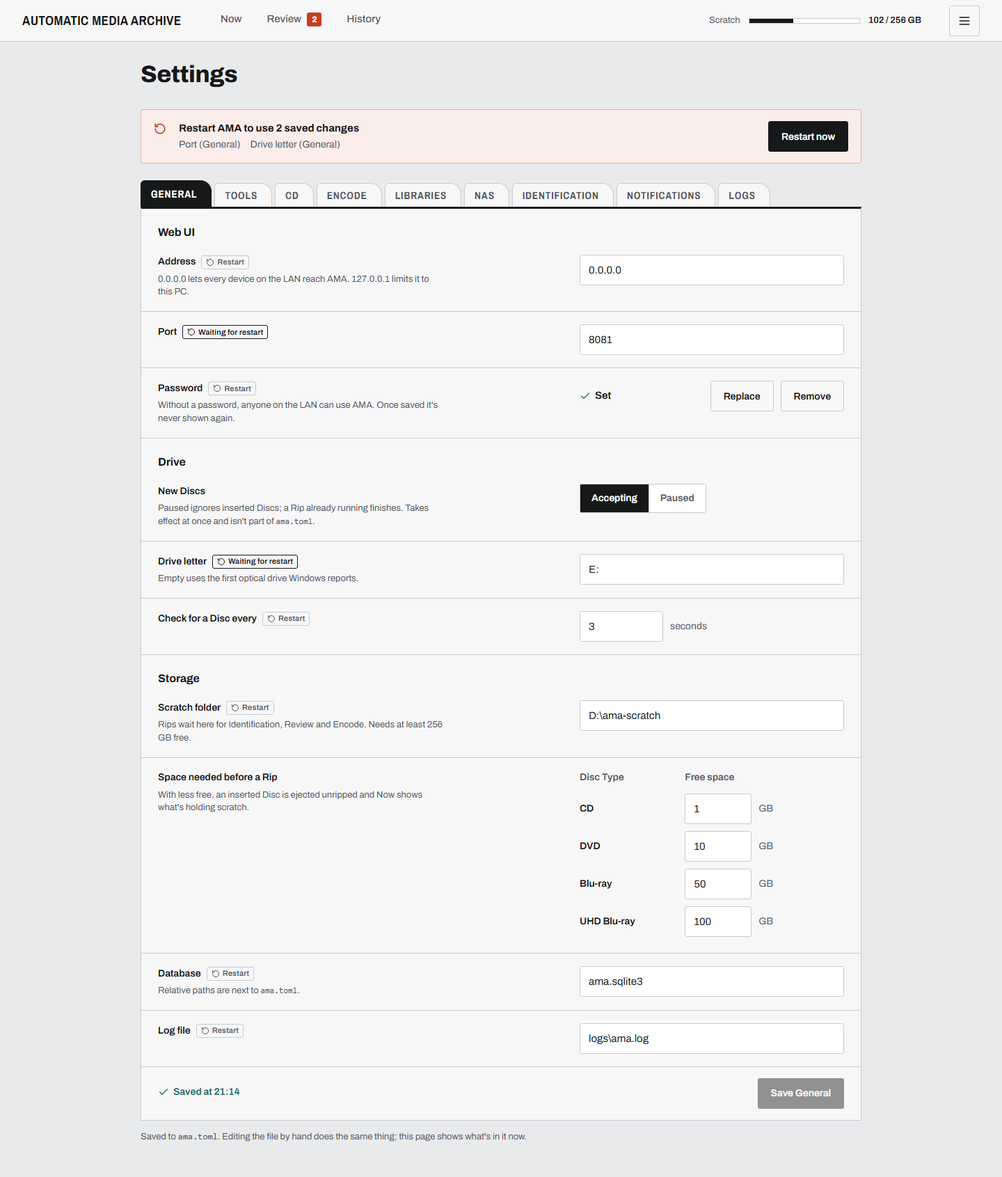
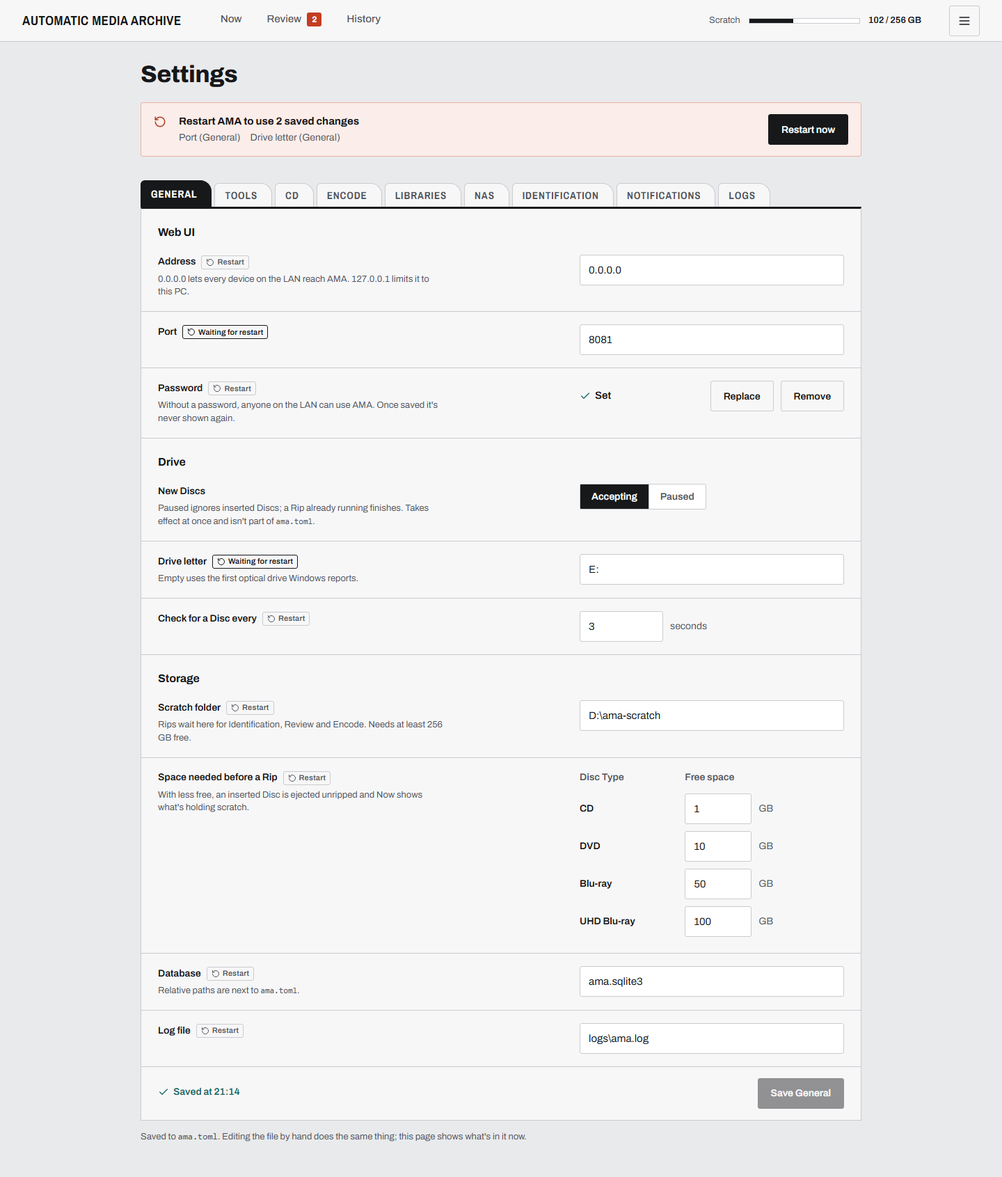
Settings mockups: 44px tab targets, toggle buttons, review fixes
Divider tabs get a 44px hit area (48px on phones) without changing shape;
Paused is a mark, not a link; New Discs, Theme and Kind toggles are
aria-pressed buttons; scratch thresholds carry the Restart tag. DESIGN.md
now allows state colours on the 1px border.

diff --git a/docs/mockups/settings-menu.html b/docs/mockups/settings-menu.html
@@ -11,11 +11,11 @@
 <header class="top">
   <a class="brand" href="now.html">Automatic Media Archive</a>
   <nav class="nav" aria-label="Main"><a href="now.html">Now</a><a href="review-movie.html">Review<span class="count" aria-label="2 waiting">2</span></a><a href="history.html">History</a></nav>
-  <a class="paused" href="settings-menu.html" title="New Discs are ignored until you resume"><svg class="i" aria-hidden="true"><use href="assets/icons.svg#pause"/></svg>Paused</a><a class="scratch" href="scratch-full.html" title="Local scratch space"><span class="lbl">Scratch</span><span class="meter" role="meter" aria-valuenow="102" aria-valuemin="0" aria-valuemax="256" aria-label="Scratch used"><i style="width:39.8%"></i></span><b>102 / 256 GB</b></a>
+  <span class="paused" title="New Discs are ignored until you resume"><svg class="i" aria-hidden="true"><use href="assets/icons.svg#pause"/></svg>Paused</span><a class="scratch" href="scratch-full.html" title="Local scratch space"><span class="lbl">Scratch</span><span class="meter" role="meter" aria-valuenow="102" aria-valuemin="0" aria-valuemax="256" aria-label="Scratch used"><i style="width:39.8%"></i></span><b>102 / 256 GB</b></a>
   <div class="menu"><button class="mbtn" type="button" aria-label="Menu" aria-expanded="true" aria-controls="menu" onclick="location.href='settings-general.html'"><svg class="i" aria-hidden="true"><use href="assets/icons.svg#menu"/></svg></button>
     <div class="mpanel" id="menu">
-      <div class="mg"><div class="ml" id="m-drive">New Discs</div><div class="segs" role="group" aria-labelledby="m-drive"><a href="#">Accepting</a><a href="#" aria-current="true">Paused</a></div></div>
-      <div class="mg"><div class="ml" id="m-theme">Theme</div><div class="segs" role="group" aria-labelledby="m-theme"><a href="#" aria-current="true">System</a><a href="?theme=light">Light</a><a href="?theme=dark">Dark</a></div></div>
+      <div class="mg"><div class="ml" id="m-drive">New Discs</div><div class="segs" role="group" aria-labelledby="m-drive"><button type="button" aria-pressed="false">Accepting</button><button type="button" aria-pressed="true">Paused</button></div></div>
+      <div class="mg"><div class="ml" id="m-theme">Theme</div><div class="segs" role="group" aria-labelledby="m-theme"><button type="button" aria-pressed="true">System</button><button type="button" aria-pressed="false">Light</button><button type="button" aria-pressed="false">Dark</button></div></div>
       <a class="mi" href="settings-general.html" aria-current="page"><svg class="i" aria-hidden="true"><use href="assets/icons.svg#settings"/></svg>Settings</a>
       <a class="mi" href="login.html"><svg class="i" aria-hidden="true"><use href="assets/icons.svg#logout"/></svg>Log out</a>
     </div></div>
@@ -29,12 +29,12 @@
       <div class="sf"><div><div class="lb"><label for="web-port">Port</label><span class="rs" title="Saved now, used after AMA restarts"><svg class="i" aria-hidden="true"><use href="assets/icons.svg#redo"/></svg>Restart</span></div></div><div class="ctl"><input class="input" id="web-port" type="number" name="web-port" value="8080" aria-describedby="web-port-h" spellcheck="false"></div></div>
       <div class="sf"><div><div class="lb"><span>Password</span><span class="rs" title="Saved now, used after AMA restarts"><svg class="i" aria-hidden="true"><use href="assets/icons.svg#redo"/></svg>Restart</span></div><div class="hn">Without a password, anyone on the LAN can use AMA. Once saved it's never shown again.</div></div><div class="ctl"><div class="secret"><span class="state"><svg class="i" aria-hidden="true"><use href="assets/icons.svg#check"/></svg>Set</span><button class="btn quiet" type="button" aria-label="Replace password">Replace</button><button class="btn quiet" type="button" aria-label="Remove password">Remove</button></div></div></div>
       <div class="grp-h"><h2>Drive</h2></div>
-      <div class="sf"><div><div class="lb"><span>New Discs</span></div><div class="hn">Paused ignores inserted Discs; a Rip already running finishes. Takes effect at once and isn't part of <code>ama.toml</code>.</div></div><div class="ctl"><div class="segs" role="group" aria-label="New Discs"><a href="#" aria-current="true">Accepting</a><a href="settings-menu.html">Paused</a></div></div></div>
+      <div class="sf"><div><div class="lb"><span>New Discs</span></div><div class="hn">Paused ignores inserted Discs; a Rip already running finishes. Takes effect at once and isn't part of <code>ama.toml</code>.</div></div><div class="ctl"><div class="segs" role="group" aria-label="New Discs"><button type="button" aria-pressed="true">Accepting</button><button type="button" aria-pressed="false">Paused</button></div></div></div>
       <div class="sf"><div><div class="lb"><label for="drive-letter">Drive letter</label><span class="rs" title="Saved now, used after AMA restarts"><svg class="i" aria-hidden="true"><use href="assets/icons.svg#redo"/></svg>Restart</span></div><div class="hn" id="drive-letter-h">Empty uses the first optical drive Windows reports.</div></div><div class="ctl"><input class="input" id="drive-letter" type="text" name="drive-letter" placeholder="Automatic (D:)" aria-describedby="drive-letter-h" spellcheck="false"></div></div>
       <div class="sf"><div><div class="lb"><label for="drive-poll">Check for a Disc every</label><span class="rs" title="Saved now, used after AMA restarts"><svg class="i" aria-hidden="true"><use href="assets/icons.svg#redo"/></svg>Restart</span></div></div><div class="ctl"><div class="unit"><input class="input" id="drive-poll" type="number" name="drive-poll" value="3" aria-describedby="drive-poll-h" spellcheck="false"><span>seconds</span></div></div></div>
       <div class="grp-h"><h2>Storage</h2></div>
       <div class="sf"><div><div class="lb"><label for="paths-scratch">Scratch folder</label><span class="rs" title="Saved now, used after AMA restarts"><svg class="i" aria-hidden="true"><use href="assets/icons.svg#redo"/></svg>Restart</span></div><div class="hn" id="paths-scratch-h">Rips wait here for Identification, Review and Encode. Needs at least 256 GB free.</div></div><div class="ctl"><input class="input" id="paths-scratch" type="text" name="paths-scratch" value="D:\ama-scratch" aria-describedby="paths-scratch-h" spellcheck="false"></div></div>
-      <div class="sf"><div><div class="lb"><span>Space needed before a Rip</span></div><div class="hn">With less free, an inserted Disc is ejected unripped and Now shows what's holding scratch.</div></div><div class="ctl"><table class="pertype"><thead><tr><th scope="col">Disc Type</th><th scope="col">Free space</th></tr></thead><tbody><tr><td>CD</td><td><div class="unit"><input class="input" type="number" value="1" aria-label="CD free space"><span>GB</span></div></td></tr><tr><td>DVD</td><td><div class="unit"><input class="input" type="number" value="10" aria-label="DVD free space"><span>GB</span></div></td></tr><tr><td>Blu-ray</td><td><div class="unit"><input class="input" type="number" value="50" aria-label="Blu-ray free space"><span>GB</span></div></td></tr><tr><td>UHD Blu-ray</td><td><div class="unit"><input class="input" type="number" value="100" aria-label="UHD Blu-ray free space"><span>GB</span></div></td></tr></tbody></table></div></div>
+      <div class="sf"><div><div class="lb"><span>Space needed before a Rip</span><span class="rs" title="Saved now, used after AMA restarts"><svg class="i" aria-hidden="true"><use href="assets/icons.svg#redo"/></svg>Restart</span></div><div class="hn">With less free, an inserted Disc is ejected unripped and Now shows what's holding scratch.</div></div><div class="ctl"><table class="pertype"><thead><tr><th scope="col">Disc Type</th><th scope="col">Free space</th></tr></thead><tbody><tr><td>CD</td><td><div class="unit"><input class="input" type="number" value="1" aria-label="CD free space"><span>GB</span></div></td></tr><tr><td>DVD</td><td><div class="unit"><input class="input" type="number" value="10" aria-label="DVD free space"><span>GB</span></div></td></tr><tr><td>Blu-ray</td><td><div class="unit"><input class="input" type="number" value="50" aria-label="Blu-ray free space"><span>GB</span></div></td></tr><tr><td>UHD Blu-ray</td><td><div class="unit"><input class="input" type="number" value="100" aria-label="UHD Blu-ray free space"><span>GB</span></div></td></tr></tbody></table></div></div>
       <div class="sf"><div><div class="lb"><label for="paths-db">Database</label><span class="rs" title="Saved now, used after AMA restarts"><svg class="i" aria-hidden="true"><use href="assets/icons.svg#redo"/></svg>Restart</span></div><div class="hn" id="paths-db-h">Relative paths are next to <code>ama.toml</code>.</div></div><div class="ctl"><input class="input" id="paths-db" type="text" name="paths-db" value="ama.sqlite3" aria-describedby="paths-db-h" spellcheck="false"></div></div>
       <div class="sf"><div><div class="lb"><label for="paths-log">Log file</label><span class="rs" title="Saved now, used after AMA restarts"><svg class="i" aria-hidden="true"><use href="assets/icons.svg#redo"/></svg>Restart</span></div></div><div class="ctl"><input class="input" id="paths-log" type="text" name="paths-log" value="logs\ama.log" aria-describedby="paths-log-h" spellcheck="false"></div></div>
       <div class="setfoot"><span class="st">No unsaved changes</span><button class="btn pri" type="submit" disabled>Save General</button></div>

diff --git a/docs/mockups/settings-restart.html b/docs/mockups/settings-restart.html
@@ -27,12 +27,12 @@
       <div class="sf"><div><div class="lb"><label for="web-port">Port</label><span class="rs pending"><svg class="i" aria-hidden="true"><use href="assets/icons.svg#redo"/></svg>Waiting for restart</span></div></div><div class="ctl"><input class="input" id="web-port" type="number" name="web-port" value="8081" aria-describedby="web-port-h" spellcheck="false"></div></div>
       <div class="sf"><div><div class="lb"><span>Password</span><span class="rs" title="Saved now, used after AMA restarts"><svg class="i" aria-hidden="true"><use href="assets/icons.svg#redo"/></svg>Restart</span></div><div class="hn">Without a password, anyone on the LAN can use AMA. Once saved it's never shown again.</div></div><div class="ctl"><div class="secret"><span class="state"><svg class="i" aria-hidden="true"><use href="assets/icons.svg#check"/></svg>Set</span><button class="btn quiet" type="button" aria-label="Replace password">Replace</button><button class="btn quiet" type="button" aria-label="Remove password">Remove</button></div></div></div>
       <div class="grp-h"><h2>Drive</h2></div>
-      <div class="sf"><div><div class="lb"><span>New Discs</span></div><div class="hn">Paused ignores inserted Discs; a Rip already running finishes. Takes effect at once and isn't part of <code>ama.toml</code>.</div></div><div class="ctl"><div class="segs" role="group" aria-label="New Discs"><a href="#" aria-current="true">Accepting</a><a href="settings-menu.html">Paused</a></div></div></div>
+      <div class="sf"><div><div class="lb"><span>New Discs</span></div><div class="hn">Paused ignores inserted Discs; a Rip already running finishes. Takes effect at once and isn't part of <code>ama.toml</code>.</div></div><div class="ctl"><div class="segs" role="group" aria-label="New Discs"><button type="button" aria-pressed="true">Accepting</button><button type="button" aria-pressed="false">Paused</button></div></div></div>
       <div class="sf"><div><div class="lb"><label for="drive-letter">Drive letter</label><span class="rs pending"><svg class="i" aria-hidden="true"><use href="assets/icons.svg#redo"/></svg>Waiting for restart</span></div><div class="hn" id="drive-letter-h">Empty uses the first optical drive Windows reports.</div></div><div class="ctl"><input class="input" id="drive-letter" type="text" name="drive-letter" value="E:" placeholder="Automatic (D:)" aria-describedby="drive-letter-h" spellcheck="false"></div></div>
       <div class="sf"><div><div class="lb"><label for="drive-poll">Check for a Disc every</label><span class="rs" title="Saved now, used after AMA restarts"><svg class="i" aria-hidden="true"><use href="assets/icons.svg#redo"/></svg>Restart</span></div></div><div class="ctl"><div class="unit"><input class="input" id="drive-poll" type="number" name="drive-poll" value="3" aria-describedby="drive-poll-h" spellcheck="false"><span>seconds</span></div></div></div>
       <div class="grp-h"><h2>Storage</h2></div>
       <div class="sf"><div><div class="lb"><label for="paths-scratch">Scratch folder</label><span class="rs" title="Saved now, used after AMA restarts"><svg class="i" aria-hidden="true"><use href="assets/icons.svg#redo"/></svg>Restart</span></div><div class="hn" id="paths-scratch-h">Rips wait here for Identification, Review and Encode. Needs at least 256 GB free.</div></div><div class="ctl"><input class="input" id="paths-scratch" type="text" name="paths-scratch" value="D:\ama-scratch" aria-describedby="paths-scratch-h" spellcheck="false"></div></div>
-      <div class="sf"><div><div class="lb"><span>Space needed before a Rip</span></div><div class="hn">With less free, an inserted Disc is ejected unripped and Now shows what's holding scratch.</div></div><div class="ctl"><table class="pertype"><thead><tr><th scope="col">Disc Type</th><th scope="col">Free space</th></tr></thead><tbody><tr><td>CD</td><td><div class="unit"><input class="input" type="number" value="1" aria-label="CD free space"><span>GB</span></div></td></tr><tr><td>DVD</td><td><div class="unit"><input class="input" type="number" value="10" aria-label="DVD free space"><span>GB</span></div></td></tr><tr><td>Blu-ray</td><td><div class="unit"><input class="input" type="number" value="50" aria-label="Blu-ray free space"><span>GB</span></div></td></tr><tr><td>UHD Blu-ray</td><td><div class="unit"><input class="input" type="number" value="100" aria-label="UHD Blu-ray free space"><span>GB</span></div></td></tr></tbody></table></div></div>
+      <div class="sf"><div><div class="lb"><span>Space needed before a Rip</span><span class="rs" title="Saved now, used after AMA restarts"><svg class="i" aria-hidden="true"><use href="assets/icons.svg#redo"/></svg>Restart</span></div><div class="hn">With less free, an inserted Disc is ejected unripped and Now shows what's holding scratch.</div></div><div class="ctl"><table class="pertype"><thead><tr><th scope="col">Disc Type</th><th scope="col">Free space</th></tr></thead><tbody><tr><td>CD</td><td><div class="unit"><input class="input" type="number" value="1" aria-label="CD free space"><span>GB</span></div></td></tr><tr><td>DVD</td><td><div class="unit"><input class="input" type="number" value="10" aria-label="DVD free space"><span>GB</span></div></td></tr><tr><td>Blu-ray</td><td><div class="unit"><input class="input" type="number" value="50" aria-label="Blu-ray free space"><span>GB</span></div></td></tr><tr><td>UHD Blu-ray</td><td><div class="unit"><input class="input" type="number" value="100" aria-label="UHD Blu-ray free space"><span>GB</span></div></td></tr></tbody></table></div></div>
       <div class="sf"><div><div class="lb"><label for="paths-db">Database</label><span class="rs" title="Saved now, used after AMA restarts"><svg class="i" aria-hidden="true"><use href="assets/icons.svg#redo"/></svg>Restart</span></div><div class="hn" id="paths-db-h">Relative paths are next to <code>ama.toml</code>.</div></div><div class="ctl"><input class="input" id="paths-db" type="text" name="paths-db" value="ama.sqlite3" aria-describedby="paths-db-h" spellcheck="false"></div></div>
       <div class="sf"><div><div class="lb"><label for="paths-log">Log file</label><span class="rs" title="Saved now, used after AMA restarts"><svg class="i" aria-hidden="true"><use href="assets/icons.svg#redo"/></svg>Restart</span></div></div><div class="ctl"><input class="input" id="paths-log" type="text" name="paths-log" value="logs\ama.log" aria-describedby="paths-log-h" spellcheck="false"></div></div>
       <div class="setfoot"><span class="st"><span class="ok" role="status"><svg class="i" aria-hidden="true"><use href="assets/icons.svg#check"/></svg>Saved at 21:14</span></span><button class="btn pri" type="submit" disabled>Save General</button></div>

diff --git a/docs/mockups/settings-general.html b/docs/mockups/settings-general.html
@@ -23,12 +23,12 @@
       <div class="sf"><div><div class="lb"><label for="web-port">Port</label><span class="rs" title="Saved now, used after AMA restarts"><svg class="i" aria-hidden="true"><use href="assets/icons.svg#redo"/></svg>Restart</span></div></div><div class="ctl"><input class="input" id="web-port" type="number" name="web-port" value="8080" aria-describedby="web-port-h" spellcheck="false"></div></div>
       <div class="sf"><div><div class="lb"><span>Password</span><span class="rs" title="Saved now, used after AMA restarts"><svg class="i" aria-hidden="true"><use href="assets/icons.svg#redo"/></svg>Restart</span></div><div class="hn">Without a password, anyone on the LAN can use AMA. Once saved it's never shown again.</div></div><div class="ctl"><div class="secret"><span class="state"><svg class="i" aria-hidden="true"><use href="assets/icons.svg#check"/></svg>Set</span><button class="btn quiet" type="button" aria-label="Replace password">Replace</button><button class="btn quiet" type="button" aria-label="Remove password">Remove</button></div></div></div>
       <div class="grp-h"><h2>Drive</h2></div>
-      <div class="sf"><div><div class="lb"><span>New Discs</span></div><div class="hn">Paused ignores inserted Discs; a Rip already running finishes. Takes effect at once and isn't part of <code>ama.toml</code>.</div></div><div class="ctl"><div class="segs" role="group" aria-label="New Discs"><a href="#" aria-current="true">Accepting</a><a href="settings-menu.html">Paused</a></div></div></div>
+      <div class="sf"><div><div class="lb"><span>New Discs</span></div><div class="hn">Paused ignores inserted Discs; a Rip already running finishes. Takes effect at once and isn't part of <code>ama.toml</code>.</div></div><div class="ctl"><div class="segs" role="group" aria-label="New Discs"><button type="button" aria-pressed="true">Accepting</button><button type="button" aria-pressed="false">Paused</button></div></div></div>
       <div class="sf"><div><div class="lb"><label for="drive-letter">Drive letter</label><span class="rs" title="Saved now, used after AMA restarts"><svg class="i" aria-hidden="true"><use href="assets/icons.svg#redo"/></svg>Restart</span></div><div class="hn" id="drive-letter-h">Empty uses the first optical drive Windows reports.</div></div><div class="ctl"><input class="input" id="drive-letter" type="text" name="drive-letter" placeholder="Automatic (D:)" aria-describedby="drive-letter-h" spellcheck="false"></div></div>
       <div class="sf"><div><div class="lb"><label for="drive-poll">Check for a Disc every</label><span class="rs" title="Saved now, used after AMA restarts"><svg class="i" aria-hidden="true"><use href="assets/icons.svg#redo"/></svg>Restart</span></div></div><div class="ctl"><div class="unit"><input class="input" id="drive-poll" type="number" name="drive-poll" value="3" aria-describedby="drive-poll-h" spellcheck="false"><span>seconds</span></div></div></div>
       <div class="grp-h"><h2>Storage</h2></div>
       <div class="sf"><div><div class="lb"><label for="paths-scratch">Scratch folder</label><span class="rs" title="Saved now, used after AMA restarts"><svg class="i" aria-hidden="true"><use href="assets/icons.svg#redo"/></svg>Restart</span></div><div class="hn" id="paths-scratch-h">Rips wait here for Identification, Review and Encode. Needs at least 256 GB free.</div></div><div class="ctl"><input class="input" id="paths-scratch" type="text" name="paths-scratch" value="D:\ama-scratch" aria-describedby="paths-scratch-h" spellcheck="false"></div></div>
-      <div class="sf"><div><div class="lb"><span>Space needed before a Rip</span></div><div class="hn">With less free, an inserted Disc is ejected unripped and Now shows what's holding scratch.</div></div><div class="ctl"><table class="pertype"><thead><tr><th scope="col">Disc Type</th><th scope="col">Free space</th></tr></thead><tbody><tr><td>CD</td><td><div class="unit"><input class="input" type="number" value="1" aria-label="CD free space"><span>GB</span></div></td></tr><tr><td>DVD</td><td><div class="unit"><input class="input" type="number" value="10" aria-label="DVD free space"><span>GB</span></div></td></tr><tr><td>Blu-ray</td><td><div class="unit"><input class="input" type="number" value="50" aria-label="Blu-ray free space"><span>GB</span></div></td></tr><tr><td>UHD Blu-ray</td><td><div class="unit"><input class="input" type="number" value="100" aria-label="UHD Blu-ray free space"><span>GB</span></div></td></tr></tbody></table></div></div>
+      <div class="sf"><div><div class="lb"><span>Space needed before a Rip</span><span class="rs" title="Saved now, used after AMA restarts"><svg class="i" aria-hidden="true"><use href="assets/icons.svg#redo"/></svg>Restart</span></div><div class="hn">With less free, an inserted Disc is ejected unripped and Now shows what's holding scratch.</div></div><div class="ctl"><table class="pertype"><thead><tr><th scope="col">Disc Type</th><th scope="col">Free space</th></tr></thead><tbody><tr><td>CD</td><td><div class="unit"><input class="input" type="number" value="1" aria-label="CD free space"><span>GB</span></div></td></tr><tr><td>DVD</td><td><div class="unit"><input class="input" type="number" value="10" aria-label="DVD free space"><span>GB</span></div></td></tr><tr><td>Blu-ray</td><td><div class="unit"><input class="input" type="number" value="50" aria-label="Blu-ray free space"><span>GB</span></div></td></tr><tr><td>UHD Blu-ray</td><td><div class="unit"><input class="input" type="number" value="100" aria-label="UHD Blu-ray free space"><span>GB</span></div></td></tr></tbody></table></div></div>
       <div class="sf"><div><div class="lb"><label for="paths-db">Database</label><span class="rs" title="Saved now, used after AMA restarts"><svg class="i" aria-hidden="true"><use href="assets/icons.svg#redo"/></svg>Restart</span></div><div class="hn" id="paths-db-h">Relative paths are next to <code>ama.toml</code>.</div></div><div class="ctl"><input class="input" id="paths-db" type="text" name="paths-db" value="ama.sqlite3" aria-describedby="paths-db-h" spellcheck="false"></div></div>
       <div class="sf"><div><div class="lb"><label for="paths-log">Log file</label><span class="rs" title="Saved now, used after AMA restarts"><svg class="i" aria-hidden="true"><use href="assets/icons.svg#redo"/></svg>Restart</span></div></div><div class="ctl"><input class="input" id="paths-log" type="text" name="paths-log" value="logs\ama.log" aria-describedby="paths-log-h" spellcheck="false"></div></div>
       <div class="setfoot"><span class="st">No unsaved changes</span><button class="btn pri" type="submit" disabled>Save General</button></div>

diff --git a/docs/mockups/assets/ama-app.css b/docs/mockups/assets/ama-app.css
@@ -158,7 +158,10 @@ td.diff{box-shadow:inset 3px 0 0 var(--rev);padding-left:12px}
 .mpanel .mg{padding:12px 16px 14px;border-top:1px solid var(--rule)}
 .mpanel .mg:first-child{border-top:0}
 .mpanel .ml{font-size:13px;color:var(--ink2);margin-bottom:8px}
-.mpanel .segs{display:flex}.mpanel .segs a{flex:1;min-height:44px;display:flex;align-items:center;justify-content:center;padding:0}
+.mpanel .segs{display:flex}.mpanel .segs button{flex:1;min-height:44px}
+.segs button{padding:10px 16px;border:0;border-left:1px solid var(--rule);background:none;color:var(--ink2);font:600 14px Archivo;cursor:pointer}
+.segs button:first-child{border-left:0}
+.segs button[aria-pressed="true"]{background:var(--ink);color:var(--sheet)}
 .mpanel .mi{display:flex;align-items:center;gap:12px;min-height:48px;padding:0 16px;border-top:1px solid var(--rule);text-decoration:none;font-weight:500}
 .mpanel .mi:hover{background:var(--well)}
 .mpanel .mi[aria-current]{font-weight:700}
@@ -175,10 +178,12 @@ td.diff{box-shadow:inset 3px 0 0 var(--rev);padding-left:12px}
 
 /* Settings: divider-file tabs, one section per page (docs/mockups/settings-*.html) */
 main.settings{max-width:1100px}
-.settings h1{margin-bottom:32px}
-.files{display:flex;gap:4px;align-items:flex-end;overflow-x:auto;scrollbar-width:none}
+.settings h1{margin-bottom:22px}
+.files{display:flex;gap:4px;align-items:flex-end;padding-top:10px;overflow-x:auto;scrollbar-width:none}
 .files::-webkit-scrollbar{display:none}
-.files .tab{flex:none;height:34px;background:var(--sheet);color:var(--ink2);border:1px solid var(--rule);border-bottom:0}
+/* Hit area reaches 44px above the tab without changing its shape */
+.files .tab::before{content:"";position:absolute;inset:-10px 0 0}
+.files .tab{position:relative;flex:none;height:34px;background:var(--sheet);color:var(--ink2);border:1px solid var(--rule);border-bottom:0}
 .files .tab:hover{color:var(--ink);background:var(--well);text-decoration:none}
 .files .tab[aria-current]{height:38px;background:var(--ink);color:var(--sheet);border-color:var(--ink)}
 .files+.box{border-top-color:var(--ink)}
@@ -214,7 +219,7 @@ main.settings{max-width:1100px}
 .restart{margin-bottom:24px}
 .restart .rbody{display:flex;align-items:center;justify-content:space-between;gap:12px 24px;flex-wrap:wrap}
 .restart ul{list-style:none;display:flex;flex-wrap:wrap;gap:2px 14px;margin-top:2px;font-size:14px;color:var(--ink2)}
-/* Encoder choice and per-Disc-Type table */
+/* Encoder choice and per-Disc-Type table (settings-encode.html, settings-general.html) */
 .choices{border:1px solid var(--rule);border-radius:3px;background:var(--well)}
 .choices .radio{padding:12px 14px;align-items:center}
 .choices .radio>input{margin-top:0}
@@ -226,7 +231,7 @@ main.settings{max-width:1100px}
 .pertype td{padding:5px 12px 5px 0;vertical-align:middle}
 .pertype td:first-child{font-weight:600}
 .pertype .input{width:96px}
-/* Libraries */
+/* Libraries (settings-libraries*.html) */
 .libs{width:100%;border-collapse:collapse;font-size:14px}
 .libs th{text-align:left;font-weight:600;color:var(--ink2);padding:10px 12px;border-bottom:1px solid var(--rule)}
 .libs th:first-child,.libs td:first-child{padding-left:24px}
@@ -250,12 +255,13 @@ main.settings{max-width:1100px}
 .libedit .actions{grid-column:1/-1;justify-content:flex-end}
 .libadd{display:flex;align-items:center;justify-content:space-between;gap:12px 24px;flex-wrap:wrap;padding:16px 24px;border-top:1px solid var(--rule)}
 @media (max-width:720px){
-  .settings h1{margin-bottom:24px}
-  .files{margin:0 -16px;padding:0 16px;mask-image:linear-gradient(90deg,#000 calc(100% - 40px),transparent)}
+  .settings h1{margin-bottom:10px}
+  .files{margin:0 -16px;padding:14px 16px 0;mask-image:linear-gradient(90deg,#000 calc(100% - 40px),transparent)}
   .grp-h{padding:20px 16px 2px;flex-direction:column;gap:2px}.grp-h .ts{text-align:left}
   .sf{grid-template-columns:minmax(0,1fr);gap:8px;padding:14px 16px}
   .setfoot{padding:14px 16px;flex-wrap:wrap}.setfoot .st{width:100%}.setfoot .btn{flex:1}
   .setnotice{margin:14px 16px 4px}
+  .files .tab::before{inset:-14px 0 0}
   .restart .rbody .btn{width:100%}
   .pertype .input{width:72px}.pertype .select{width:100%}
   .libs thead{display:none}

diff --git a/docs/mockups/settings-libraries-edit.html b/docs/mockups/settings-libraries-edit.html
@@ -21,7 +21,7 @@
       <div class="grp-h"><h2>Libraries</h2><span class="ts">Where filed Jobs go. One default per kind.</span></div>
       <table class="libs"><thead><tr><th scope="col">Name</th><th scope="col">Kind</th><th scope="col">Folder</th><th scope="col">Plex library</th><th scope="col"><span class="sr">Default</span></th><th scope="col"><span class="sr">Actions</span></th></tr></thead><tbody><tr><td class="nm">Movies</td><td class="c-kind">Films</td><td class="c-path path">\\nas\media\Movies</td><td class="c-plex">Movies</td><td class="c-def"><span class="def"><svg class="i" aria-hidden="true"><use href="assets/icons.svg#check"/></svg>Default</span></td><td class="c-act"><span class="act"><button class="btn quiet" type="button" aria-label="Edit Movies">Edit</button><button class="btn quiet" type="button" disabled title="Make another Films Library the default first">Remove</button></span></td></tr><tr class="editing"><td class="nm">Family Films</td><td class="c-kind">Films</td><td class="c-path path">\\nas\media\Family Films</td><td class="c-plex">Family Films</td><td class="c-def"></td><td class="c-act"><span class="act"><button class="btn quiet" type="button" aria-label="Edit Family Films">Edit</button><button class="btn danger" type="button" aria-label="Remove Family Films">Remove</button></span></td></tr><tr class="edit-row"><td class="edit-cell" colspan="6"><div class="libedit" role="group" aria-label="Edit Family Films">
   <div class="field"><label for="lib-name">Name</label><input class="input" id="lib-name" value="Family Films"></div>
-  <div class="field"><span class="lbl-k" id="lib-kind" style="font-weight:600;font-size:14px">Kind</span><div class="segs" role="group" aria-labelledby="lib-kind"><a href="#" aria-current="true">Films</a><a href="#">TV</a><a href="#">Music</a></div></div>
+  <div class="field"><span class="lbl-k" id="lib-kind" style="font-weight:600;font-size:14px">Kind</span><div class="segs" role="group" aria-labelledby="lib-kind"><button type="button" aria-pressed="true">Films</button><button type="button" aria-pressed="false">TV</button><button type="button" aria-pressed="false">Music</button></div></div>
   <div class="field full"><label for="lib-path">Folder</label><input class="input" id="lib-path" value="\\nas\media\Family Films" aria-describedby="lib-path-h"><span class="hint" id="lib-path-h">On the NAS share. Created if it's missing.</span></div>
   <div class="field"><label for="lib-plex">Plex library</label><select class="select" id="lib-plex" aria-describedby="lib-plex-h"><option>Movies</option><option selected>Family Films</option><option>Movies 4K</option><option>TV Shows</option><option>Music</option></select><span class="hint" id="lib-plex-h">Scanned after each Job is filed here.</span></div>
   <div class="field"><span style="font-weight:600;font-size:14px">Default</span><label class="chk"><input type="checkbox">Default for Films (replaces Movies)</label></div>

diff --git a/DESIGN.md b/DESIGN.md
@@ -275,7 +275,7 @@ The spacing rhythm is 4 / 8 / 12 / 16 / 18 / 24 / 28 / 32px.
 The system is flat. There are no drop shadows. Depth is the tab sitting on its sheet, the 3px stage-coloured top edge of the sheet, and the 1px hairline grid between rows and frames. The only box-shadow is `inset 0 0 0 2px ink` on a selected radio row, which is a selection mark rather than elevation.
 
 ### Named Rules
-**The One Rule Weight Rule.** Every border and divider is 1px `rule`. The only exceptions are the 3px stage top edge on bin sheets, the 3px active-nav underline, and the 2px focus ring.
+**The One Rule Weight Rule.** Every border and divider is 1px `rule`. The only exceptions are the 3px stage top edge on bin sheets, the 3px active-nav underline, and the 2px focus ring. A 1px border may change colour to mark state, never weight: `ink` for buttons, overrides, a pending restart, the Paused mark and hover; `review-ink` (border plus 1px outline, like focus) for an invalid input.
 
 ## Shapes
 
@@ -306,8 +306,8 @@ Plain, firm and printed.
 
 ### Navigation
 - **Top bar:** a 60px `sheet` bar with a bottom rule. It holds the uppercase Archivo Narrow brand, nav links (Now, Review, History) in Archivo 500 / `ink-2`, then the scratch meter and the menu button pushed to the right.
-- **Menu:** a 44px square button with the three-line icon (`aria-label="Menu"`). It opens a 280px `sheet` panel under it with a 1px rule border and no top edge: New Discs (Accepting / Paused segmented control), Theme (System / Light / Dark), then Settings and Log out as 48px rows (Log out only when a password is set). On phones the button sits at the right end of the nav row.
-- **Paused mark:** while the drive is paused, an `ink`-outlined 26px "Paused" label with a pause icon sits before the scratch meter on every page. It is hidden on phones, where the menu shows the state.
+- **Menu:** a 44px square button with the three-line icon (`aria-label="Menu"`). It opens a 280px `sheet` panel under it, bordered all round in 1px `rule` with no stage or `ink` top edge: New Discs (Accepting / Paused segmented control), Theme (System / Light / Dark), then Settings and Log out as 48px rows (Log out only when a password is set). On phones the button sits at the right end of the nav row.
+- **Paused mark:** while the drive is paused, an `ink`-outlined 26px "Paused" label (a mark, not a control; the menu changes it) with a pause icon sits before the scratch meter on every page. It is hidden on phones, where the menu shows the state.
 - **Active link:** `ink` text with a 3px `ink` underline (`aria-current`).
 - **Review count:** a tomato badge (700, 12px, 3px corners).
 - **Scratch meter:** a 160px × 8px `well` track with a rule border and an `ink` fill that turns `review-tomato` when full.
@@ -345,7 +345,7 @@ A Job's settings as overrides of the global ones (`docs/mockups/job-settings-*.h
 
 ### Settings Page
 Editing `ama.toml` one section at a time (`docs/mockups/settings-*.html`). Content is capped at 1100px.
-- **Divider file:** the nine sections (General, Tools, CD, Encode, Libraries, NAS, Identification, Notifications, Logs) are divider tabs in a row, 32px below the h1. Closed tabs are `sheet` with a rule border and `ink-2` lettering; the open one is `ink`, 4px taller, and sits on a sheet with an `ink` top edge. Each section is its own page. On phones the row scrolls sideways, fades at the right, and scrolls the open tab into view.
+- **Divider file:** the nine sections (General, Tools, CD, Encode, Libraries, NAS, Identification, Notifications, Logs) are divider tabs in a row, 32px below the h1. Each tab's hit area reaches 44px (48px on phones) upward into that gap. Closed tabs are `sheet` with a rule border and `ink-2` lettering; the open one is `ink`, 4px taller, and sits on a sheet with an `ink` top edge. Each section is its own page. On phones the row scrolls sideways, fades at the right, and scrolls the open tab into view.
 - **Group:** a 700 / 16px heading with an optional 13px `ink-2` note at the right (for example "Takes effect at once").
 - **Field row:** label and hint on the left, the control in a column of up to 380px on the right, rows divided by the hairline. One column under 720px.
 - **Restart tag:** a 20px rule-bordered label with the redo icon, "Restart", beside the label of every key that applies only after a restart. Once such a key is saved it reads "Waiting for restart" with an `ink` border.
